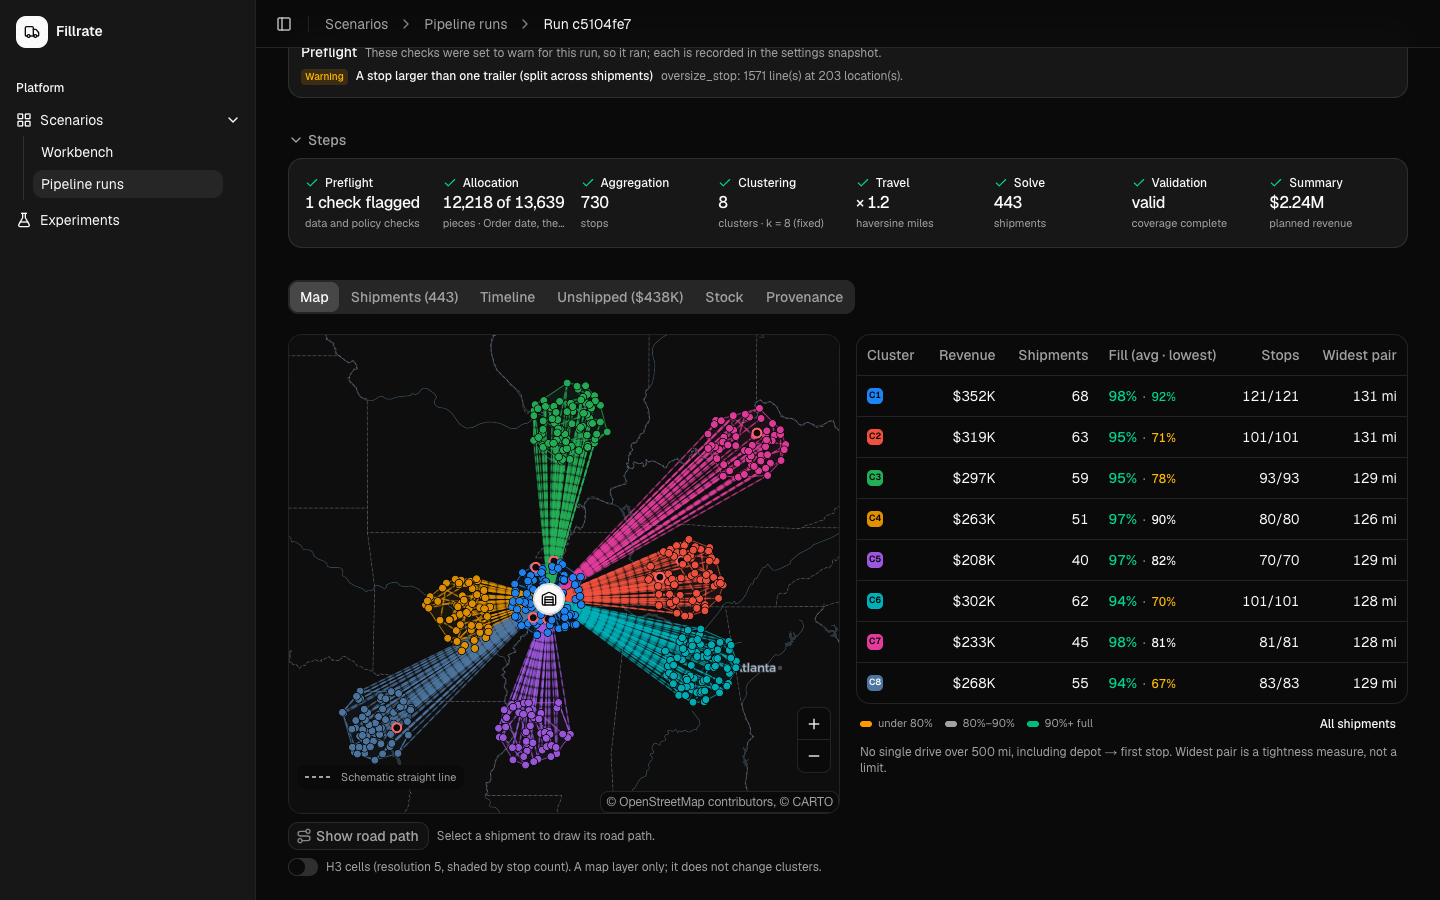
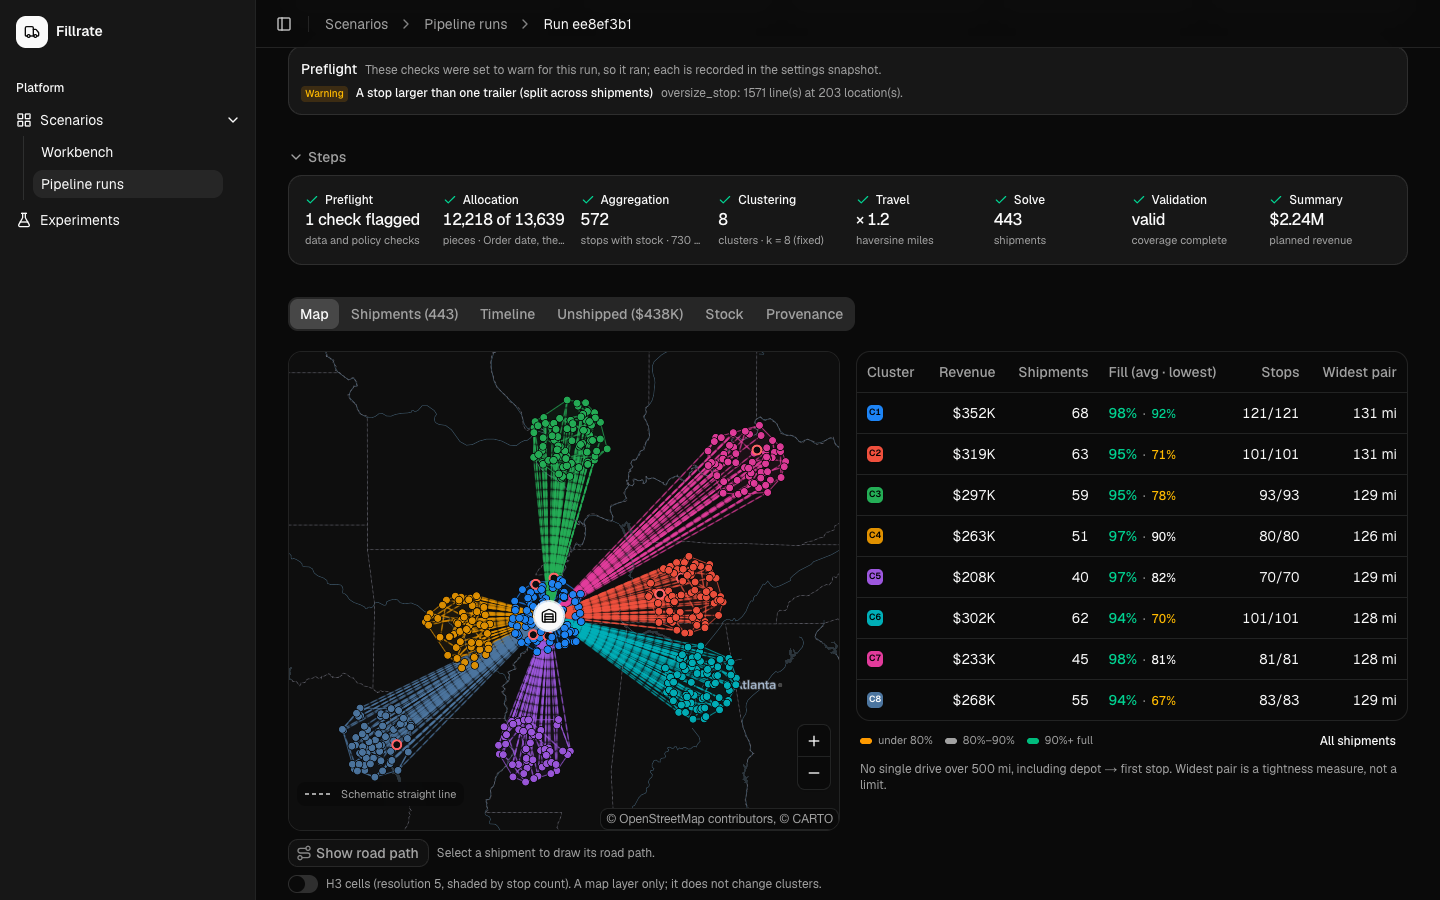
Refresh README screenshots and workbench notes

diff --git a/README.md b/README.md
@@ -18,7 +18,7 @@ When stock is short and trucks are finite, Fillrate answers three questions for 
 1. **Allocate** available inventory to order lines piece by piece: earliest order date first, then highest value per piece. Lines can be partly filled.
 2. **Cluster** the stops with k-means. The k explorer compares k values and seeds so you can check a grouping is stable.
 3. **Build loads** in each cluster with [PyVRP](https://pyvrp.org/): linear feet as capacity, open routes (no return leg), at most 500 miles per drive, optional delivery time windows. Fewest trucks first, then fewest miles.
-4. **Validate and compare.** Revenue, trailer fill, truck count and miles per run, cluster and shipment; side-by-side comparison across runs and sweeps.
+4. **Validate and compare.** Revenue, trailer fill, truck count and miles per run, cluster and shipment, with stops counted once even when an oversize stop is split across trucks; side-by-side comparison across runs and sweeps.
 
 Distances are straight-line miles × a circuity factor (default 1.2). Roads never feed the optimizer; you can draw a shipment's road path from the public Valhalla server for display (routing © Valhalla / FOSSGIS, data © OpenStreetMap contributors).
 
@@ -28,12 +28,12 @@ Distances are straight-line miles × a circuity factor (default 1.2). Roads neve
 |---|---|
 | ![Run summary: revenue, shipments, trailer fill, miles and pipeline steps](docs/screenshots/run-summary.png) | ![Unshipped lines grouped by reason, with evidence for each](docs/screenshots/unshipped.png) |
 | **Run summary.** Headline numbers, preflight checks and each pipeline step. | **Unshipped.** Every line that didn't ship, why, and the evidence. |
-| ![Scenario workbench with a saved 2,000-order scenario and data review](docs/screenshots/workbench.png) | ![Hosted playground after running the sample scenario](docs/screenshots/playground.png) |
-| **Workbench.** Import, review and fix data, save versions, then run. | **Playground.** The hosted, stateless version: run the sample or a CSV. |
+| ![Scenario workbench with the 2,000-order example open: depot, data review and saved versions](docs/screenshots/workbench.png) | ![Hosted playground after running the sample scenario](docs/screenshots/playground.png) |
+| **Workbench.** Open a saved scenario or example, review and fix data, save versions, then run. | **Playground.** The hosted, stateless version: run the sample or a CSV. |
 
 ## Features
 
-- **Import** orders and stock as CSV, GeoJSON points or scenario JSON, or open a bundled example in one click. Addresses geocode with the free US Census geocoder, with a labeled ZIP fallback; fix coordinates by hand on a map.
+- **Import** orders and stock as CSV, GeoJSON points or scenario JSON, or open a bundled example in one click. Once a scenario is open, the import form folds away until you need it. Addresses geocode with the free US Census geocoder, with a labeled ZIP fallback; fix coordinates by hand on a map.
 - **Versioned scenarios.** Edit quantities, dates and coordinates in place; each save is a new version you can branch from.
 - **Preflight checks** flag missing coordinates, unreachable stops and oversize stops before the solver runs, each set to block or warn.
 - **Run inspection.** Cluster map, per-shipment list and timeline, unshipped lines with reasons, stock use and full provenance.
